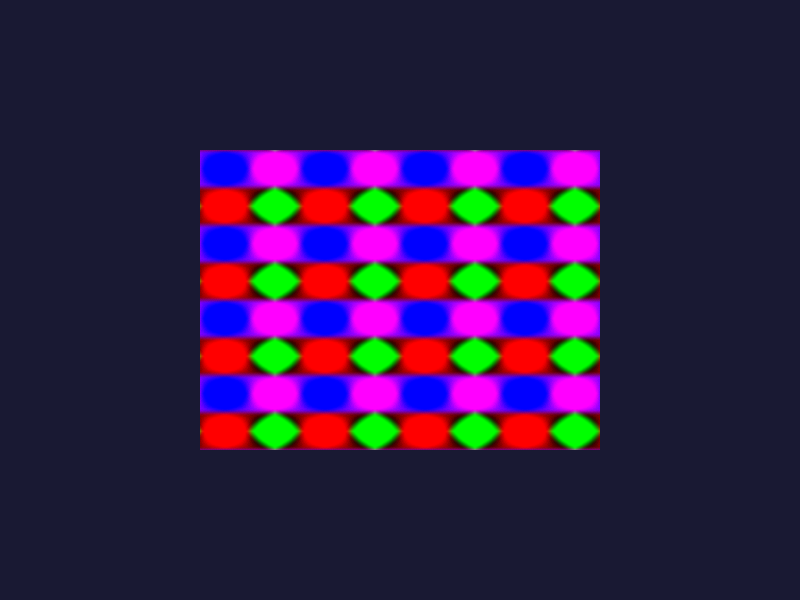
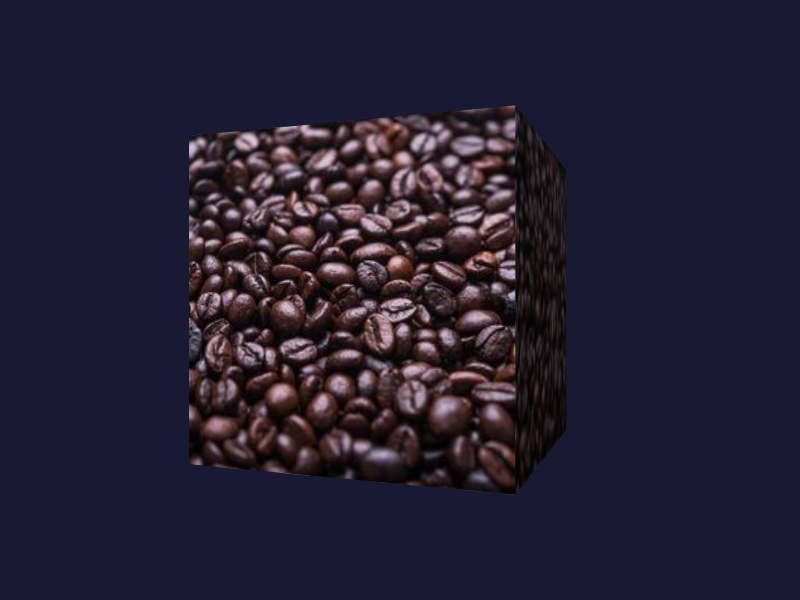
[C#] Minor update to C# Texturing example.

Changed region(s): [[0.2188, 0.18, 0.75, 0.84]]

diff --git a/examples/CSharp/Texturing/Texturing.cs b/examples/CSharp/Texturing/Texturing.cs
@@ -96,9 +96,9 @@ namespace LLGLExamples
         LLGL.PipelineState PSO { get; set; }
         LLGL.VertexAttribute[] VertexAttribs { get; set; }
 
-        static IndexedTriangelMesh<Vertex, UInt16> CreateCubeMesh(float r)
+        static IndexedTriangleMesh<Vertex, UInt16> CreateCubeMesh(float r)
         {
-            var mesh = new IndexedTriangelMesh<Vertex, UInt16>();
+            var mesh = new IndexedTriangleMesh<Vertex, UInt16>();
 
             mesh.Vertices.AddRange(new Vertex[]{
                 // front

diff --git a/examples/CSharp/ExampleBase/ExampleBase.cs b/examples/CSharp/ExampleBase/ExampleBase.cs
@@ -11,7 +11,7 @@ using System.Numerics;
 
 namespace LLGLExamples
 {
-    public class IndexedTriangelMesh<TVertex, TIndex>
+    public class IndexedTriangleMesh<TVertex, TIndex>
     {
         public List<TVertex> Vertices { get; set; } = new List<TVertex>();
         public List<TIndex> Indices { get; set; } = new List<TIndex>();

diff --git a/examples/CSharp/README.md b/examples/CSharp/README.md
@@ -1,0 +1,15 @@
+# C# Examples
+
+### [Hello Triangle](HelloTriangle)
+
+Introductory to LLGL.NET that renders the classic gradient triangle.
+
+<p align="center"><img src="HelloTriangle/HelloTriangle.png" style="width:auto;height:225px;"/></p>
+
+
+### [Texturing](Texturing)
+
+Renders a textured cube whose image is loaded from a URL at launch.
+
+<p align="center"><img src="Texturing/Texturing.png" style="width:auto;height:225px;"/></p>
+
